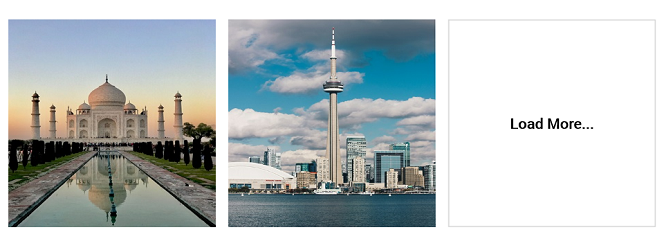
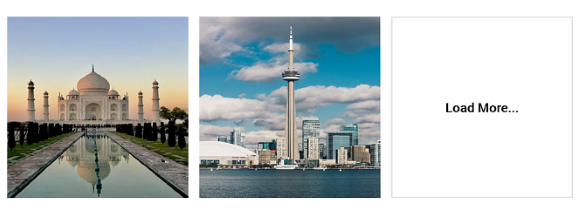
Resolved image size error.

diff --git a/MAUI/ComboBox/UI-Customization.md b/MAUI/ComboBox/UI-Customization.md
@@ -12,7 +12,7 @@ keywords: .net maui combobox, .net maui sfcombobox, syncfusion combobox, combobo
 
 This section explains different UI customizations available in [SfComboBox](https://help.syncfusion.com/cr/maui/Syncfusion.Maui.Inputs.SfComboBox.html).
 
-Watch this video to quickly customize the .NET MAUI ComboBox.
+Watch this video for a quick guide on customizing the .NET MAUI ComboBox.
 
 {% youtube "https://www.youtube.com/watch?v=_yk7El0Seu8" %}
 

diff --git a/MAUI/Autocomplete/UI-Customization.md b/MAUI/Autocomplete/UI-Customization.md
@@ -11,7 +11,7 @@ documentation: ug
 
 This section explains different UI customizations available in the [.NET MAUI Autocomplete](https://help.syncfusion.com/cr/maui/Syncfusion.Maui.Inputs.SfAutocomplete.html) control.
 
-Watch this video to quickly customize the .NET MAUI Autocomplete.
+Watch this video for a quick guide on customizing the .NET MAUI Autocomplete.
 
 {% youtube "https://www.youtube.com/watch?v=Hh5pfXvax9o" %}
 

diff --git a/MAUI/Carousel-View/LoadMore.md b/MAUI/Carousel-View/LoadMore.md
@@ -9,7 +9,7 @@ documentation : ug
 
 # Load More in .NET MAUI Carousel View (SfCarousel)
 
-Watch this video to quickly customize the .NET MAUI Carousel.
+Watch this video for a quick guide on customizing the .NET MAUI Carousel.
 
 {% youtube "https://www.youtube.com/watch?v=Q3eNppgpQ2Y" %}
 
